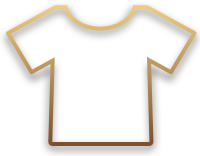
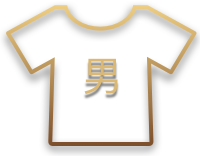
fix img

Changed region(s): [[0.42, 0.359, 0.6, 0.641]]

diff --git a/src/containers/PensionTwo.vue b/src/containers/PensionTwo.vue
@@ -5,9 +5,9 @@
               <div class="top" flex-box='1'>
               <div class="title" flex-box = '1'>请选择您的性别</div>
                   <div  flex = 'main:left' class="sex">
-                      <label for="man" flex-box="1" class="checked">男</label>
-                      <input type="radio" v-model="gender" value="男" id="man"/>
-                      <label for="woman" flex-box="1">女</label>
+                      <label for="man" flex-box="1" checked="checked"></label>
+                      <input type="radio" v-model="gender" value="男" id="man" checked = checked/>
+                      <label for="woman" flex-box="1"></label>
                       <input type="radio" v-model="gender" value="女" id="woman"/>
                   </div>'
             </div>
@@ -19,7 +19,7 @@
             <div class="age" flex-box='1'>
                 <mt-picker :slots="slots" @change="onValuesChange">
                 </mt-picker>
-                <slot>当前选择：<span class='sex'>{{gender}}</span><span class='age'></span></slot>
+                <slot>当前选择：<span class='sex'>{{gender || '男'}}</span><span class='age'></span></slot>
             </div>
         </div>
         <div class="bottom" flex-box="0" flex="main:justify">
@@ -41,7 +41,15 @@
                 if (values[0] > values[1]) {
                     picker.setSlotValue(2, values[0]);
                 }
-            }
+            },
+//            doGender(gender){
+//                if(gender == "男"){
+//                    gel
+//                }
+//            },
+//            gel(){
+//                return document
+//            }
         },
         data() {
             return {

diff --git a/src/containers/InvitationRewardList.vue b/src/containers/InvitationRewardList.vue
@@ -18,8 +18,6 @@
         <div class="item-list"  flex-box="1" v-infinite-scroll="loadMore"
              infinite-scroll-disabled="disLoad"
              infinite-scroll-distance="70">
-            <!--<mt-loadmore :top-method="loadTop" :bottom-method="loadBottom" :bottom-all-loaded="allLoaded" ref="loadmore" :auto-fill="autoFill">-->
-
                 <div flex="dir:left" class="item" v-for="(item,index) in rewardList"  @click.stop="link(item.rewardBillCode)">
                     <div class="left" flex="dir:top main:center" >
                             <p class='info'>{{item.rewardStatus == 2 ? item.payAmount : item.rewardAmount | currencyFormat}}元</p>
@@ -49,7 +47,6 @@
                             </span>
                     </div>
                 </div>
-            <!--</mt-loadmore>-->
             <p v-show="loading&&hasMore" class="loading">加载更多...</p>
         </div>
     </div>
@@ -102,6 +99,8 @@
                     .then(msg => {
                         this.loading = false;
                         if(msg.code == 200){
+                            this.sumData = msg.data.sumData;
+//                            console.log(msg)
                             if(type == 'refresh'){
                                 this.rewardList = msg.data.rewardList;
                             }

diff --git a/src/less/pension-two.less b/src/less/pension-two.less
@@ -49,11 +49,11 @@
                     background-size: 4.7rem;
                 }
                 label:nth-child(1){
-                    background:url(../images/boy2@2x.png) no-repeat center center;
+                    background:url(../images/boy@2x.png) no-repeat center center;
                     background-size: 4.75rem;
                 }
                 label:nth-child(3){
-                    background:url(../images/girl2@2x.png) no-repeat center center;
+                    background:url(../images/girl@2x.png) no-repeat center center;
                     background-size: 4.7rem;
                 }
             }

diff --git a/src/router/index.js b/src/router/index.js
@@ -212,7 +212,6 @@ let routes = [
         name: 'pension-two',
         meta: {
             title: '养老理财规划',
-            withoutLogin: true
         },
         component: PensionTwo
     }, {
